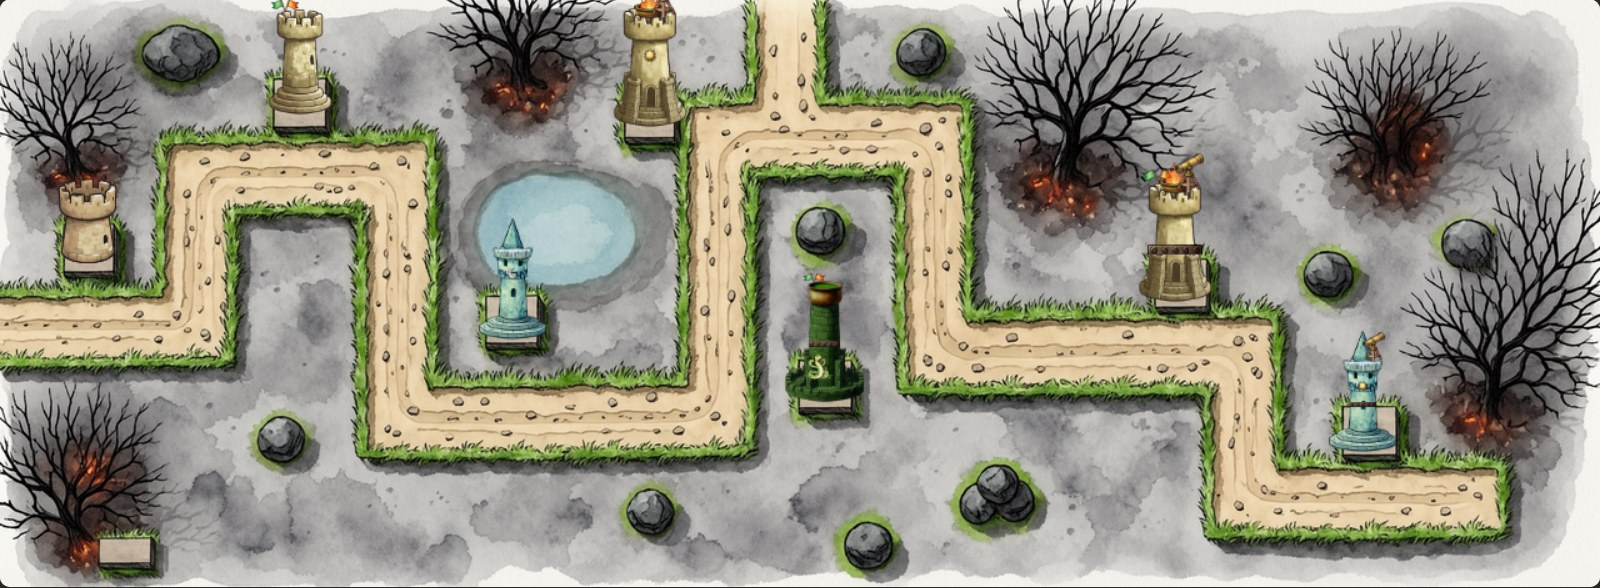
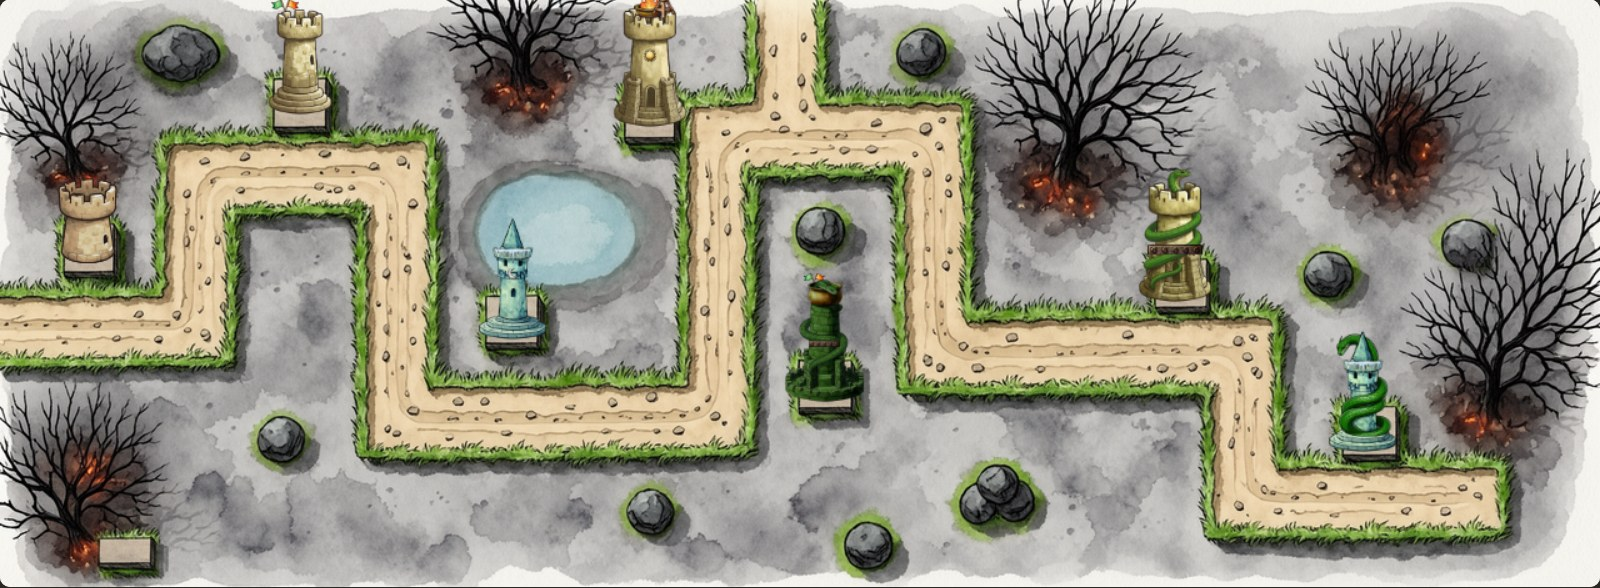
chore: keep the viper winding around the whole tower for #145

diff --git a/experiments/145-tower-blocks/turm.ts b/experiments/145-tower-blocks/turm.ts
@@ -20,20 +20,19 @@ const BASES: Record<string, readonly [string, string, string]> = {
   viper: ['viper-1-22', 'viper-2-sockel-22', 'viper-3-sockel-11'],
 };
 /**
- * »der viper« was a living snake laid on the tower; two other ways, switched on the page: a snake winding around the
- * whole tower, painted into each base (tuerme.py umschlungen), or a snake carved from stone as a block.
+ * »der viper« winds a snake around the whole tower, in front of it and behind it, so it is painted into a second
+ * picture of each base (tuerme.py umschlungen) instead of laid on top. A living snake laid in front and a carved
+ * stone snake were tried and liked less.
  */
 const WRAPPED: Record<string, readonly [string, string, string]> = {
   jagd: ['jagd-1-viper-11', 'jagd-2-viper-22', 'jagd-3-viper-11'],
   eisnadel: ['eisnadel-1-viper-11', 'eisnadel-2-viper-22', 'eisnadel-3-viper-22'],
   viper: ['viper-1-viper-11', 'viper-2-viper-22', 'viper-3-viper-11'],
 };
-const SNAKES = { umschlungen: 'Schlange um den Turm', stein: 'Stein-Schlange', lebend: 'lebende Schlange (bisher)' } as const;
-let snake: keyof typeof SNAKES = 'umschlungen';
 /** Each stage stands a little taller on the map. */
 const STAGE_HEIGHT = [0.82, 1, 1.15];
 
-type Anchor = 'top' | 'topLeft' | 'topRight' | 'crown' | 'band' | 'front' | 'emblem';
+type Anchor = 'top' | 'topLeft' | 'topRight' | 'crown' | 'band' | 'emblem';
 /**
  * Where a word's block sits, how wide it is (share of the width of the tower at that point) and its layer:
  * below 0 behind the tower, above 0 in front, higher numbers over lower ones.
@@ -50,11 +49,9 @@ const BLOCKS: Record<string, Block> = {
   weite: { file: 'baustein-weite-11', anchor: 'topRight', width: 0.55, layer: 4 },
   frostige: { file: 'baustein-frostige-22', anchor: 'crown', width: 1.02, layer: 2 },
   flammende: { file: 'baustein-flammende-11', anchor: 'top', width: 0.6, layer: 3 },
-  'der viper': { file: 'baustein-der-viper-22', anchor: 'front', width: 0.55, layer: 3 },
   'im morgengrauen': { file: 'baustein-im-morgengrauen-11', anchor: 'emblem', width: 0.36, layer: 2 },
   'um mitternacht': { file: 'baustein-um-mitternacht-22', anchor: 'emblem', width: 0.36, layer: 2 },
 };
-const STONE_SNAKE: Block = { file: 'baustein-der-viper-stein-22', anchor: 'front', width: 0.5, layer: 3 };
 
 /** The outline of a base: for each row of the picture the leftmost and rightmost opaque pixel. */
 interface Shape {
@@ -134,10 +131,6 @@ function place(shape: Shape, anchor: Anchor): { x: number; y: number; across: nu
       const y = shape.crownBottom + body * 0.42;
       return { x: middleAt(shape, y), y, across: widthAt(shape, y), centre: true };
     }
-    case 'front': {
-      const y = shape.crownBottom + body * 0.78;
-      return { x: middleAt(shape, y) - widthAt(shape, y) * 0.08, y, across: widthAt(shape, shape.crownBottom + body * 0.5), centre: false };
-    }
     case 'emblem': {
       const y = shape.crownBottom + body * 0.2;
       return { x: middleAt(shape, y), y, across: widthAt(shape, y), centre: true };
@@ -151,14 +144,13 @@ function drawTower(ctx: CanvasRenderingContext2D, sentence: readonly Lexeme[], x
   const base = sentence.find((lexeme) => lexeme.role === 'base');
   if (!tower || !base) return;
   const stage = (tower.level ?? 1) - 1;
-  const wrapped = snake === 'umschlungen' && sentence.some((lexeme) => lexeme.word === 'der viper');
+  const wrapped = sentence.some((lexeme) => lexeme.word === 'der viper');
   // Anchors and size always come from the plain base; a wrapped one is drawn over it, lined up pixel for pixel.
   const shape = shapes.get(BASES[base.word]![stage]!)!;
   const scale = (height * STAGE_HEIGHT[stage]!) / (shape.bottom - shape.top);
   const originX = x - middleAt(shape, shape.bottom - 2) * scale;
   const originY = y - shape.bottom * scale;
-  const blockOf = (word: string): Block | undefined => (word === 'der viper' ? (wrapped ? undefined : snake === 'stein' ? STONE_SNAKE : BLOCKS[word]) : BLOCKS[word]);
-  const blocks = sentence.flatMap((lexeme) => blockOf(lexeme.word) ?? []).sort((a, b) => a.layer - b.layer);
+  const blocks = sentence.flatMap((lexeme) => BLOCKS[lexeme.word] ?? []).sort((a, b) => a.layer - b.layer);
   const drawBlock = (block: Block) => {
     const image = images.get(block.file)!;
     const at = place(shape, block.anchor);
@@ -274,26 +266,9 @@ async function renderMap(): Promise<void> {
 
 async function start(): Promise<void> {
   const bases = Object.values(BASES).flat();
-  const files = [...bases, ...Object.values(WRAPPED).flat(), ...Object.values(BLOCKS).map((block) => block.file), STONE_SNAKE.file];
+  const files = [...bases, ...Object.values(WRAPPED).flat(), ...Object.values(BLOCKS).map((block) => block.file)];
   await Promise.all(files.map(async (file) => images.set(file, await load(art[`./teile/${file}.png`]!))));
   for (const file of bases) shapes.set(file, measure(images.get(file)!));
-  await renderAll();
-}
-
-/** Switches how »der viper« looks and draws everything again. */
-async function renderAll(): Promise<void> {
-  document.querySelector('#schlange')!.replaceChildren(
-    ...Object.entries(SNAKES).map(([key, label]) => {
-      const button = document.createElement('button');
-      button.textContent = `der viper: ${label}`;
-      button.classList.toggle('on', key === snake);
-      button.onclick = () => {
-        snake = key as keyof typeof SNAKES;
-        void renderAll();
-      };
-      return button;
-    }),
-  );
   renderBuilder();
   renderGallery();
   await renderMap();

diff --git a/experiments/145-tower-blocks/turm.html b/experiments/145-tower-blocks/turm.html
@@ -19,7 +19,6 @@
     <main>
       <h2>Satz zusammenstellen</h2>
       <div class="row" id="arten"></div>
-      <div class="row" id="schlange"></div>
       <div class="row" id="woerter"></div>
       <div id="satz"></div>
       <canvas id="turm" width="420" height="460"></canvas>
